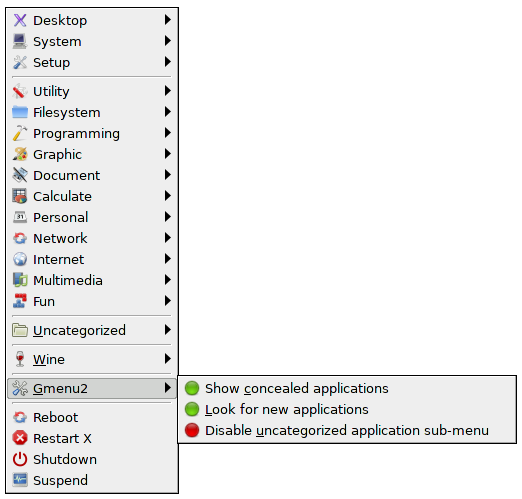
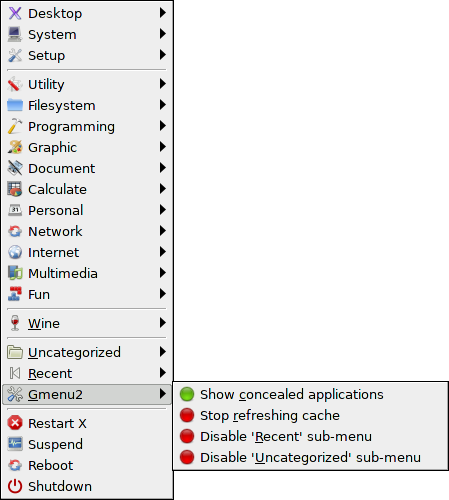
Update README and gmenu2 screenshot.

Changed region(s): [[0.0, 0.0, 1.0, 1.0]]

diff --git a/README.md b/README.md
@@ -21,7 +21,8 @@ An application menu.
  * Help: Hover over menu entries for tooltip help.
  * Thanks: Gmenu2 was inspired by SFR's GMenu script.
  * Screenshot: Note the typical Puppy Linux application sub-menus, and
-   the additional 'Uncategorized', 'Wine', and 'Gmenu2' sub-menus.
+   the additional 'Wine', 'Uncategorized', 'Recent', and 'Gmenu2' sub-menus.
+   'Recent' tracks item and launcher activations for quick re-use.
  * ![Screenshot](img/gmenu2.png)
 
 
